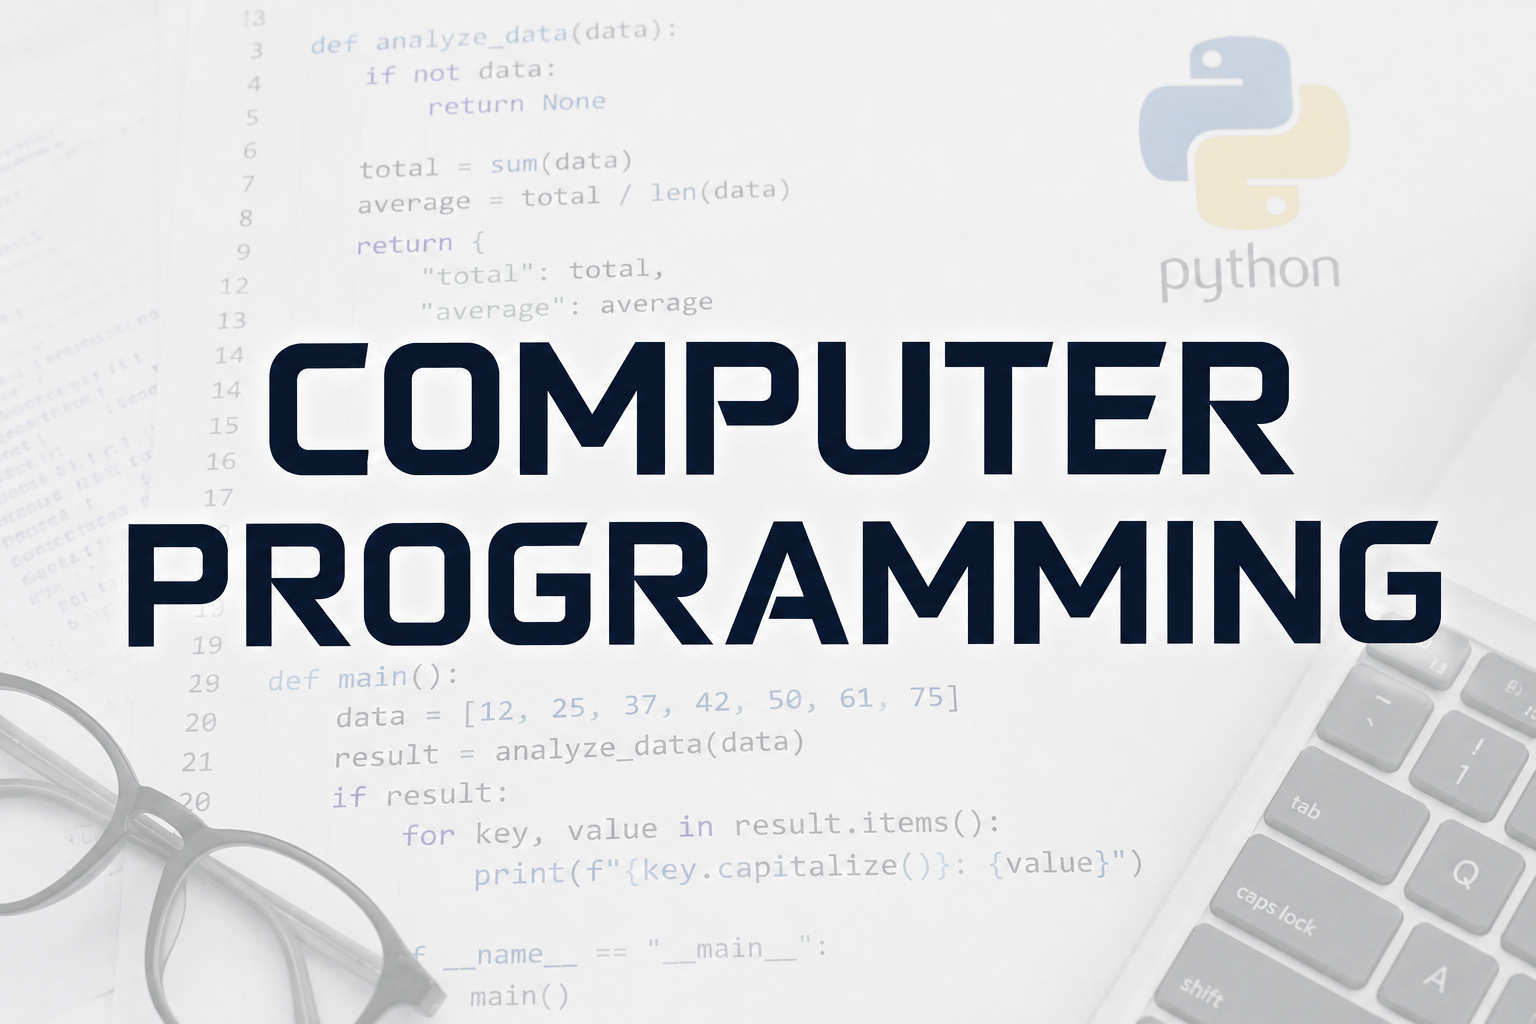
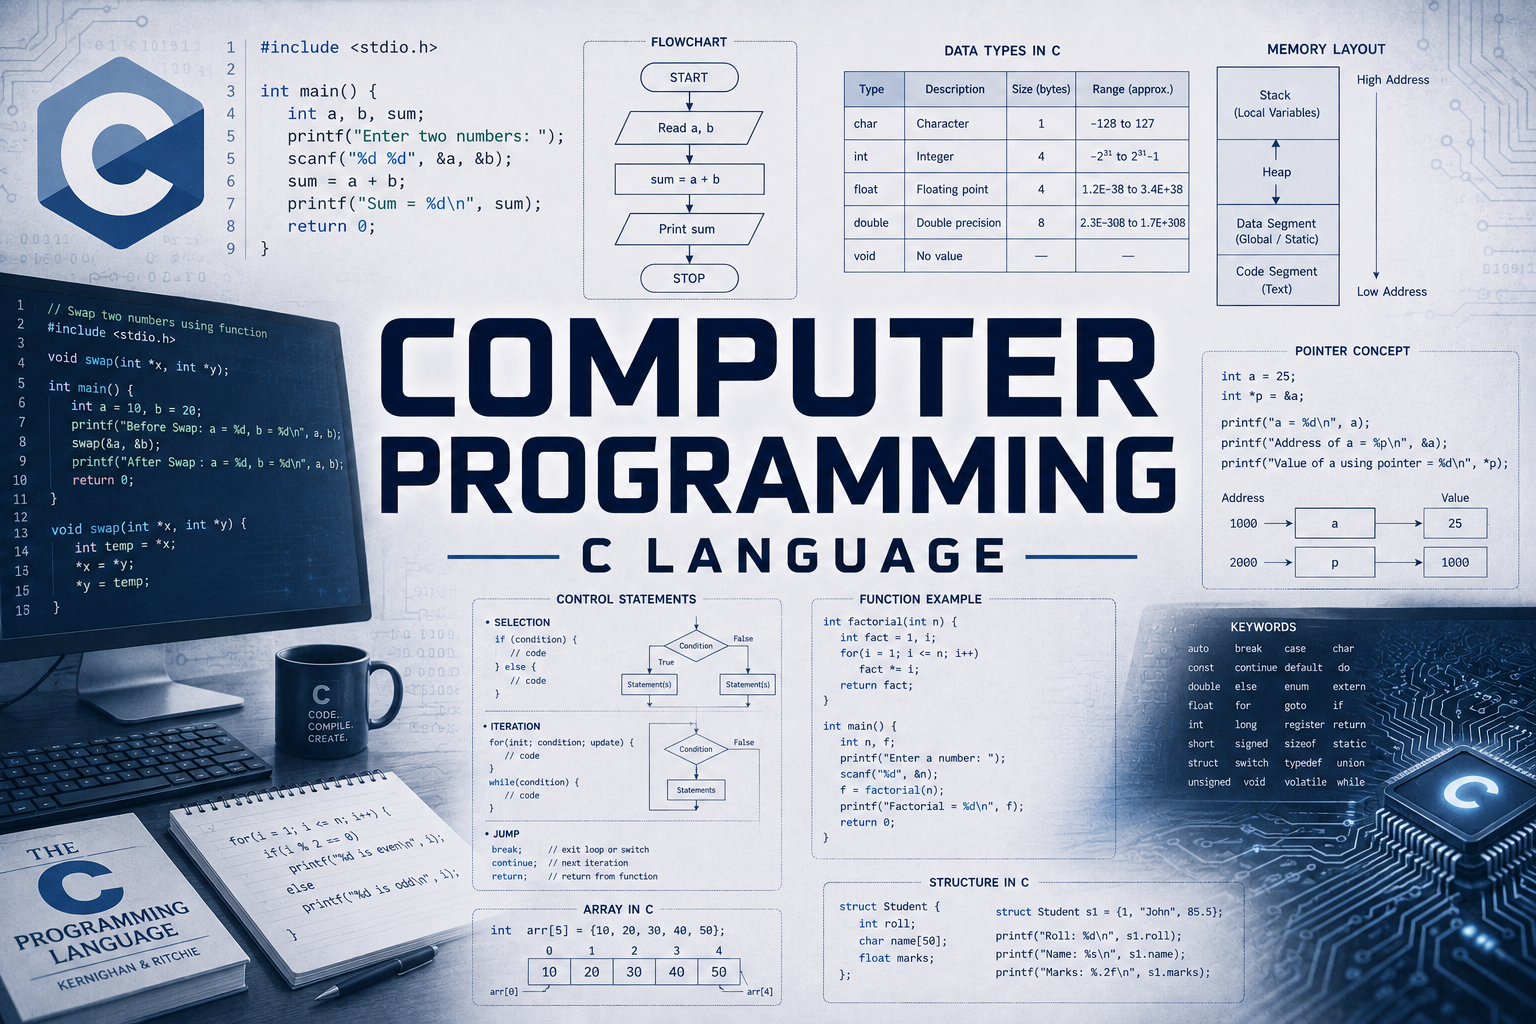
Added Algebra to products

diff --git a/templates/products.html b/templates/products.html
@@ -245,23 +245,22 @@
       </button>
       </div>
 
-      <!-- COMING SOON: ALGEBRA -->
+      <!-- ALGEBRA -->
       <div data-priority="1">
-      <div class="product-card coming-soon">
+      <div class="product-card {% if products['ebook15'].get('preview_images') %}has-preview{% endif %}" {%if products['ebook15'].get('preview_images') %}onclick='openPreview({{ products['ebook15']['preview_images'] | tojson }}, "{{ products['ebook15']['name'] }}")' {% endif %}>
       <div class="preview">
         <img src="{{ url_for('static', filename='images/Algebra.png') }}" alt="ALGEBRA">
-        <span class="coming-soon-badge">Coming Soon</span>
       </div>
       <div class="product-info">
       <div class="description">
-      ALGEBRA
+      {{ products["ebook15"]["name"] }}
       </div>
       <div class="price">
-      --
+      KES {{ products["ebook15"]["price"] }}
       </div>
       </div>
       </div>
-      <button class="buy-btn" disabled>
+      <button class="buy-btn" onclick="event.stopPropagation(); openCheckout('ebook15')">
       BUY
       </button>
       </div>
